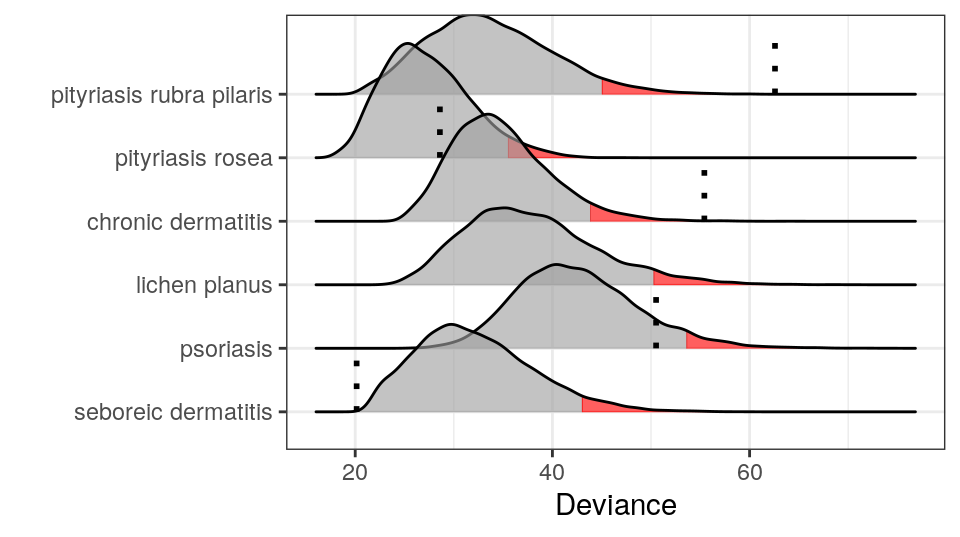
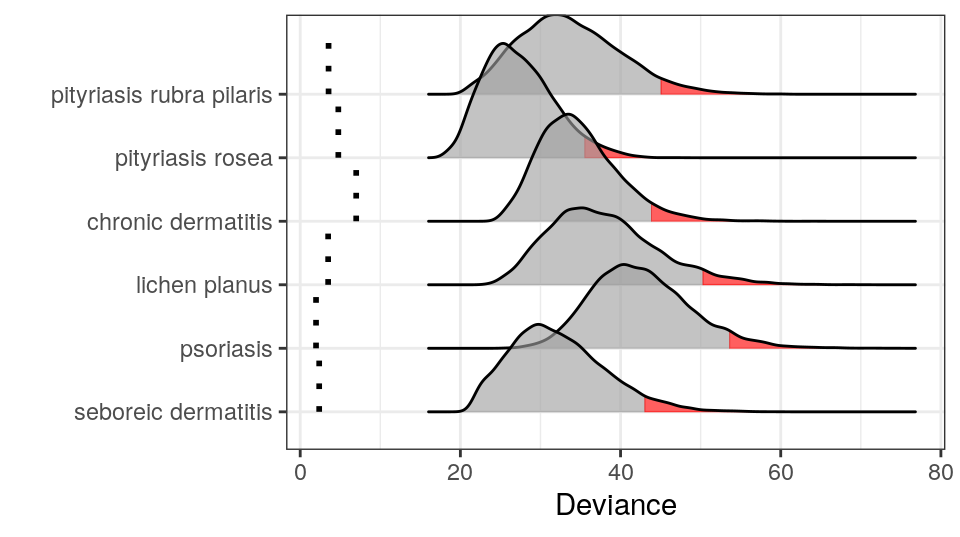
docs updated

diff --git a/docs/index.html b/docs/index.html
@@ -92,14 +92,14 @@
 <div id="getting-started" class="section level2">
 <h2 class="hasAnchor">
 <a href="#getting-started" class="anchor"></a>Getting Started</h2>
-<p>The documentation can be found at <a href="https://mlindsk.github.io/molic/reference/index.html">documentation</a>.</p>
+<p>The documentation can be found <a href="https://mlindsk.github.io/molic/reference/index.html">here</a>.</p>
 <ul>
 <li>
 <a href="https://mlindsk.github.io/molic/articles/outlier_intro.html">The Outlier Model</a>: The “behind the scenes” of the model.</li>
 <li>
 <a href="https://mlindsk.github.io/molic/articles/genetic_example.html">Outlier Detection in Genetic Data</a>: An example of how to conduct an outlier analysis in genetic data.</li>
 <li>
-<a href="https://github.com/mlindsk/molic/blob/master/vignettes/dermatitis.Rmd">Detecting Skin Diseases</a>: An example of using the outlier model to detect skin diseases.</li>
+<a href="https://mlindsk.github.io/molic/articles/dermatitis.html">Detecting Skin Diseases</a>: An example of using the outlier model to detect skin diseases.</li>
 <li>Below we give a brief explanation of how to use <strong>molic</strong> and provide a small toy example. In the documentation (see above), we give examples of the main functions using the <code>digits</code> data <a href="https://archive.ics.uci.edu/ml/index.php">UCI Machine Learning Repository</a>.</li>
 </ul>
 <p>You can install the current stable release of the package by using the <code>devtools</code> package:</p>
@@ -230,14 +230,14 @@ z &lt;-<span class="st"> </span><span class="kw"><a href="https://dplyr.tidyvers
 <span class="co">#&gt;   Estimated variance: 2.5 </span>
 <span class="co">#&gt;     ---------------------------   </span>
 <span class="co">#&gt;   Critical value: 10.29936 </span>
-<span class="co">#&gt;   Deviance: 25.1124 </span>
-<span class="co">#&gt;   P-value: 3e-04 </span>
+<span class="co">#&gt;   Deviance: 3.159159 </span>
+<span class="co">#&gt;   P-value: 1 </span>
 <span class="co">#&gt;   Alpha: 0.05 </span>
 <span class="co">#&gt;   &lt;outlier, outlier_model, list&gt; </span>
 <span class="co">#&gt;  --------------------------------</span></code></pre></div>
 <p>Thus the car is declared an outlier on a <span class="math inline">\(0.05\)</span> significance level. We can visualize this by plotting the corresponding density of the deviance statistic as</p>
 <div class="sourceCode"><pre class="sourceCode r"><code class="sourceCode r"><span class="kw"><a href="https://www.rdocumentation.org/packages/graphics/topics/plot">plot</a></span>(m)</code></pre></div>
-<p><img src="reference/figures/README-unnamed-chunk-9-1.png" width="100%"> Since the observed deviance of the selected car, 25.1124022, is much larger than the critical value of 10.2993615 the car is declared an outlier. The red area represents the significance level (here <span class="math inline">\(\alpha = 0.05\)</span>).</p>
+<p><img src="reference/figures/README-unnamed-chunk-9-1.png" width="100%"> Since the observed deviance of the selected car, 3.1591589, is much larger than the critical value of 10.2993615 the car is declared an outlier. The red area represents the significance level (here <span class="math inline">\(\alpha = 0.05\)</span>).</p>
 </div>
 </div>
 <div id="multiple-tests" class="section level2">

diff --git a/docs/articles/genetic_example.html b/docs/articles/genetic_example.html
@@ -158,17 +158,17 @@ m  &lt;-<span class="st"> </span><span class="kw"><a href="../reference/fit_mixe
 ##   Simulations: 10000 
 ##   Variables: 302 
 ##   Observations: 1008 
-##   Estimated mean: 482.47 
-##   Estimated variance: 322.19 
+##   Estimated mean: 482.08 
+##   Estimated variance: 329.26 
 ##     ---------------------------   
-##   Critical value: 512.9414 
-##   Deviance: 508.0499 
-##   P-value: 0.0819 
+##   Critical value: 512.6256 
+##   Deviance: 3.716771 
+##   P-value: 1 
 ##   Alpha: 0.05 
 ##   &lt;mixed_outlier, outlier, outlier_model, list&gt; 
 ##  --------------------------------</code></pre>
 <div class="sourceCode"><pre class="sourceCode r"><code class="sourceCode r"><span class="kw"><a href="https://www.rdocumentation.org/packages/graphics/topics/plot">plot</a></span>(m)</code></pre></div>
-<p><img src="genetic_example_files/figure-html/unnamed-chunk-1-1.png" width="700"> Thus, <code>z</code> does not deviate significantly from the Europe database. The red area depicts the <span class="math inline">\(0.05\)</span> significance level and the dotted line is the observed deviance of <code>z</code> (508.0498712). This is not a surprise, since Americans and Europeans have many similarities.</p>
+<p><img src="genetic_example_files/figure-html/unnamed-chunk-1-1.png" width="700"> Thus, <code>z</code> does not deviate significantly from the Europe database. The red area depicts the <span class="math inline">\(0.05\)</span> significance level and the dotted line is the observed deviance of <code>z</code> (3.7167714). This is not a surprise, since Americans and Europeans have many similarities.</p>
 </div>
 <div id="references" class="section level1 unnumbered">
 <h1 class="hasAnchor">

diff --git a/docs/articles/outlier_intro.html b/docs/articles/outlier_intro.html
@@ -132,33 +132,33 @@
 <tbody>
 <tr class="odd">
 <td align="center">Rejected</td>
-<td align="center">Male</td>
-<td align="center">E</td>
+<td align="center">Female</td>
+<td align="center">D</td>
 </tr>
 <tr class="even">
 <td align="center">Rejected</td>
+<td align="center">Male</td>
+<td align="center">B</td>
+</tr>
+<tr class="odd">
+<td align="center">Rejected</td>
+<td align="center">Male</td>
+<td align="center">D</td>
+</tr>
+<tr class="even">
+<td align="center">Admitted</td>
+<td align="center">Male</td>
+<td align="center">B</td>
+</tr>
+<tr class="odd">
+<td align="center">Admitted</td>
+<td align="center">Male</td>
+<td align="center">A</td>
+</tr>
+<tr class="even">
+<td align="center">Admitted</td>
 <td align="center">Female</td>
 <td align="center">C</td>
-</tr>
-<tr class="odd">
-<td align="center">Admitted</td>
-<td align="center">Female</td>
-<td align="center">D</td>
-</tr>
-<tr class="even">
-<td align="center">Admitted</td>
-<td align="center">Female</td>
-<td align="center">E</td>
-</tr>
-<tr class="odd">
-<td align="center">Rejected</td>
-<td align="center">Male</td>
-<td align="center">F</td>
-</tr>
-<tr class="even">
-<td align="center">Admitted</td>
-<td align="center">Male</td>
-<td align="center">D</td>
 </tr>
 </tbody>
 </table>

diff --git a/docs/reference/gengraph.html b/docs/reference/gengraph.html
@@ -126,7 +126,7 @@
     <p>A generic structure for decomposable graphical models</p>
     </div>
 
-    <pre class="usage"><span class='fu'>gengraph</span>(<span class='no'>df</span>, <span class='kw'>type</span> <span class='kw'>=</span> <span class='st'>"fwd"</span>, <span class='kw'>adj</span> <span class='kw'>=</span> <span class='kw'>NULL</span>, <span class='kw'>q</span> <span class='kw'>=</span> <span class='fl'>0.5</span>, <span class='no'>...</span>)</pre>
+    <pre class="usage"><span class='fu'>gengraph</span>(<span class='no'>df</span>, <span class='kw'>type</span> <span class='kw'>=</span> <span class='st'>"gen"</span>, <span class='kw'>adj</span> <span class='kw'>=</span> <span class='kw'>NULL</span>, <span class='kw'>q</span> <span class='kw'>=</span> <span class='fl'>0.5</span>, <span class='no'>...</span>)</pre>
 
     <h2 class="hasAnchor" id="arguments"><a class="anchor" href="#arguments"></a>Arguments</h2>
     <table class="ref-arguments">

diff --git a/docs/articles/dermatitis.html b/docs/articles/dermatitis.html
@@ -172,8 +172,8 @@ m &lt;-<span class="st"> </span><span class="kw"><a href="../reference/fit_outli
   Estimated variance: 37.55 
     ---------------------------   
   Critical value: 53.86771 
-  Deviance: 50.51582 
-  P-value: 0.1053 
+  Deviance: 1.976704 
+  P-value: 1 
   Alpha: 0.05 
   &lt;outlier, outlier_model, list&gt; 
  --------------------------------</code></pre>
